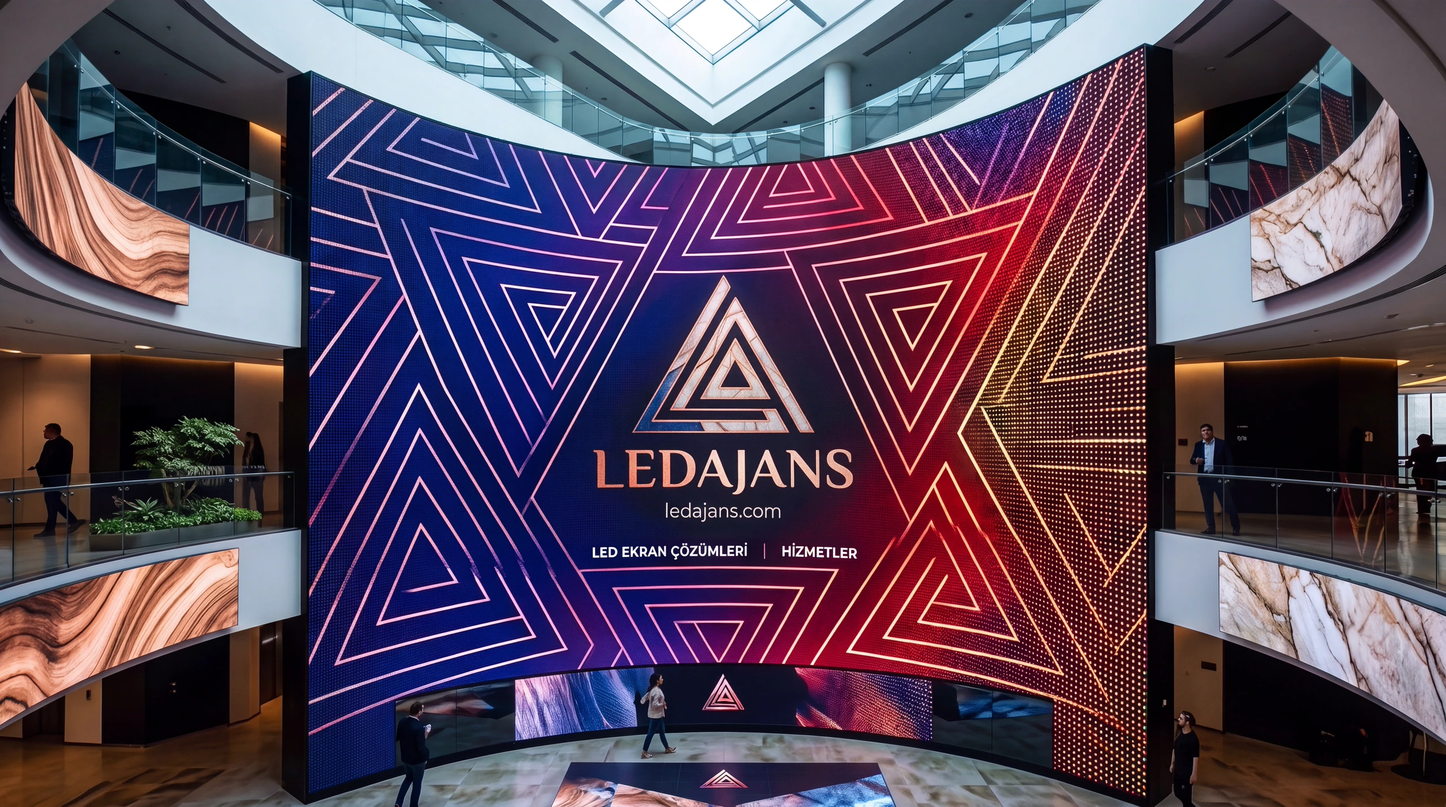
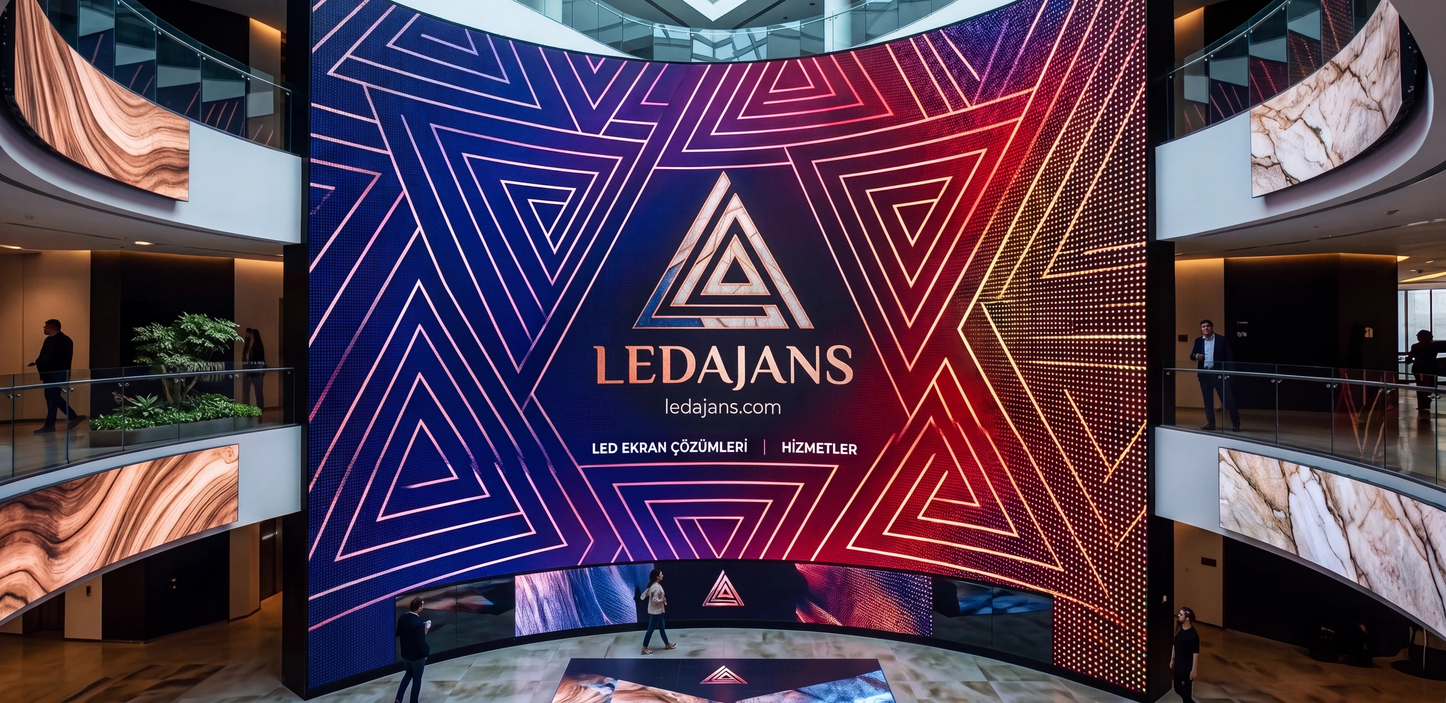
feat(ui): hero atrium v2 arka plan ve azaltılmış buğu
Yeni kavisli LED görseli WP Media v2 URL'lerine bağlandı; poster/video/mobil blur 3px, overlay 0.30 / 2px.

diff --git a/Anasayfa/Hero.html b/Anasayfa/Hero.html
@@ -1,8 +1,8 @@
 <!-- WIDGET 1 — Hero: dosyanın TAMAMINI Elementor HTML widget'a yapıştır | Ek CSS: Ek-CSS-final.css | 2026-09-21 atrium arka plan (metin d813563) -->
 <!-- SEO Meta Description (RankMath): LED ekran satış, kiralama ve kurulum. İç-dış mekan, rental. 25 yıl tecrübe, 2 yıl garanti. Ücretsiz keşif — LEDAJANS İstanbul. -->
 <link rel="preconnect" href="https://ledajans.com" crossorigin>
-<link rel="preload" as="image" href="https://ledajans.com/wp-content/uploads/2026/09/hero-atrium-led-mobile.webp" media="(max-width: 768px)" fetchpriority="high" imagesrcset="https://ledajans.com/wp-content/uploads/2026/09/hero-atrium-led-mobile.webp" imagesizes="100vw">
-<link rel="preload" as="image" href="https://ledajans.com/wp-content/uploads/2026/09/hero-atrium-led.webp" media="(min-width: 769px)" fetchpriority="high">
+<link rel="preload" as="image" href="https://ledajans.com/wp-content/uploads/2026/09/hero-atrium-led-mobile-v2.webp" media="(max-width: 768px)" fetchpriority="high" imagesrcset="https://ledajans.com/wp-content/uploads/2026/09/hero-atrium-led-mobile-v2.webp" imagesizes="100vw">
+<link rel="preload" as="image" href="https://ledajans.com/wp-content/uploads/2026/09/hero-atrium-led-v2.webp" media="(min-width: 769px)" fetchpriority="high">
 <style>
     .ledajans-video-modal {
       display: none;
@@ -405,8 +405,8 @@
       pointer-events: none;
       opacity: 0;
       transition: opacity 0.6s ease;
-      filter: blur(7px);
-      transform: scale(1.08);
+      filter: blur(3px);
+      transform: scale(1.04);
       transform-origin: center center;
     }
     .ledajans-hero-video.loaded { opacity: 1; }
@@ -416,13 +416,13 @@
       background-size: cover;
       background-position: center center;
       z-index: 0;
-      filter: blur(7px);
-      transform: scale(1.08);
+      filter: blur(3px);
+      transform: scale(1.04);
       transform-origin: center center;
     }
     @media (min-width: 769px) {
       .ledajans-hero-poster {
-        background-image: url('https://ledajans.com/wp-content/uploads/2026/09/hero-atrium-led.webp');
+        background-image: url('https://ledajans.com/wp-content/uploads/2026/09/hero-atrium-led-v2.webp');
       }
     }
     .ledajans-hero-bg-mobile {
@@ -438,16 +438,16 @@
       object-fit: cover;
       object-position: center;
       display: block;
-      filter: blur(8px);
-      transform: scale(1.1);
+      filter: blur(3px);
+      transform: scale(1.04);
       transform-origin: center center;
     }
     .ledajans-hero-overlay {
       position: absolute;
       inset: 0;
-      background-color: rgba(8, 12, 22, 0.36);
-      backdrop-filter: blur(6px) saturate(1.05);
-      -webkit-backdrop-filter: blur(6px) saturate(1.05);
+      background-color: rgba(8, 12, 22, 0.30);
+      backdrop-filter: blur(2px) saturate(1.05);
+      -webkit-backdrop-filter: blur(2px) saturate(1.05);
       z-index: 1;
       pointer-events: none;
     }
@@ -978,13 +978,13 @@
       <video class="ledajans-hero-video" id="ledajansHeroVideo"
              muted playsinline webkit-playsinline
              preload="none"
-             data-poster="https://ledajans.com/wp-content/uploads/2026/09/hero-atrium-led.webp"
+             data-poster="https://ledajans.com/wp-content/uploads/2026/09/hero-atrium-led-v2.webp"
              data-src="https://ledajans.com/wp-content/uploads/2026/03/Firefly-548225-1.mp4">
       </video>
       <div class="ledajans-hero-bg-mobile">
         <picture>
-          <source media="(max-width: 768px)" srcset="https://ledajans.com/wp-content/uploads/2026/09/hero-atrium-led-mobile.webp" type="image/webp">
-          <img src="https://ledajans.com/wp-content/uploads/2026/09/hero-atrium-led-mobile.webp" width="768" height="1024" alt="LEDAJANS LED ekran çözümleri - iç mekan ve dış mekan profesyonel LED ekran sistemleri" fetchpriority="high" loading="eager" decoding="async">
+          <source media="(max-width: 768px)" srcset="https://ledajans.com/wp-content/uploads/2026/09/hero-atrium-led-mobile-v2.webp" type="image/webp">
+          <img src="https://ledajans.com/wp-content/uploads/2026/09/hero-atrium-led-mobile-v2.webp" width="768" height="1024" alt="LEDAJANS LED ekran çözümleri - iç mekan ve dış mekan profesyonel LED ekran sistemleri" fetchpriority="high" loading="eager" decoding="async">
         </picture>
       </div>
       <div class="ledajans-hero-overlay"></div>
